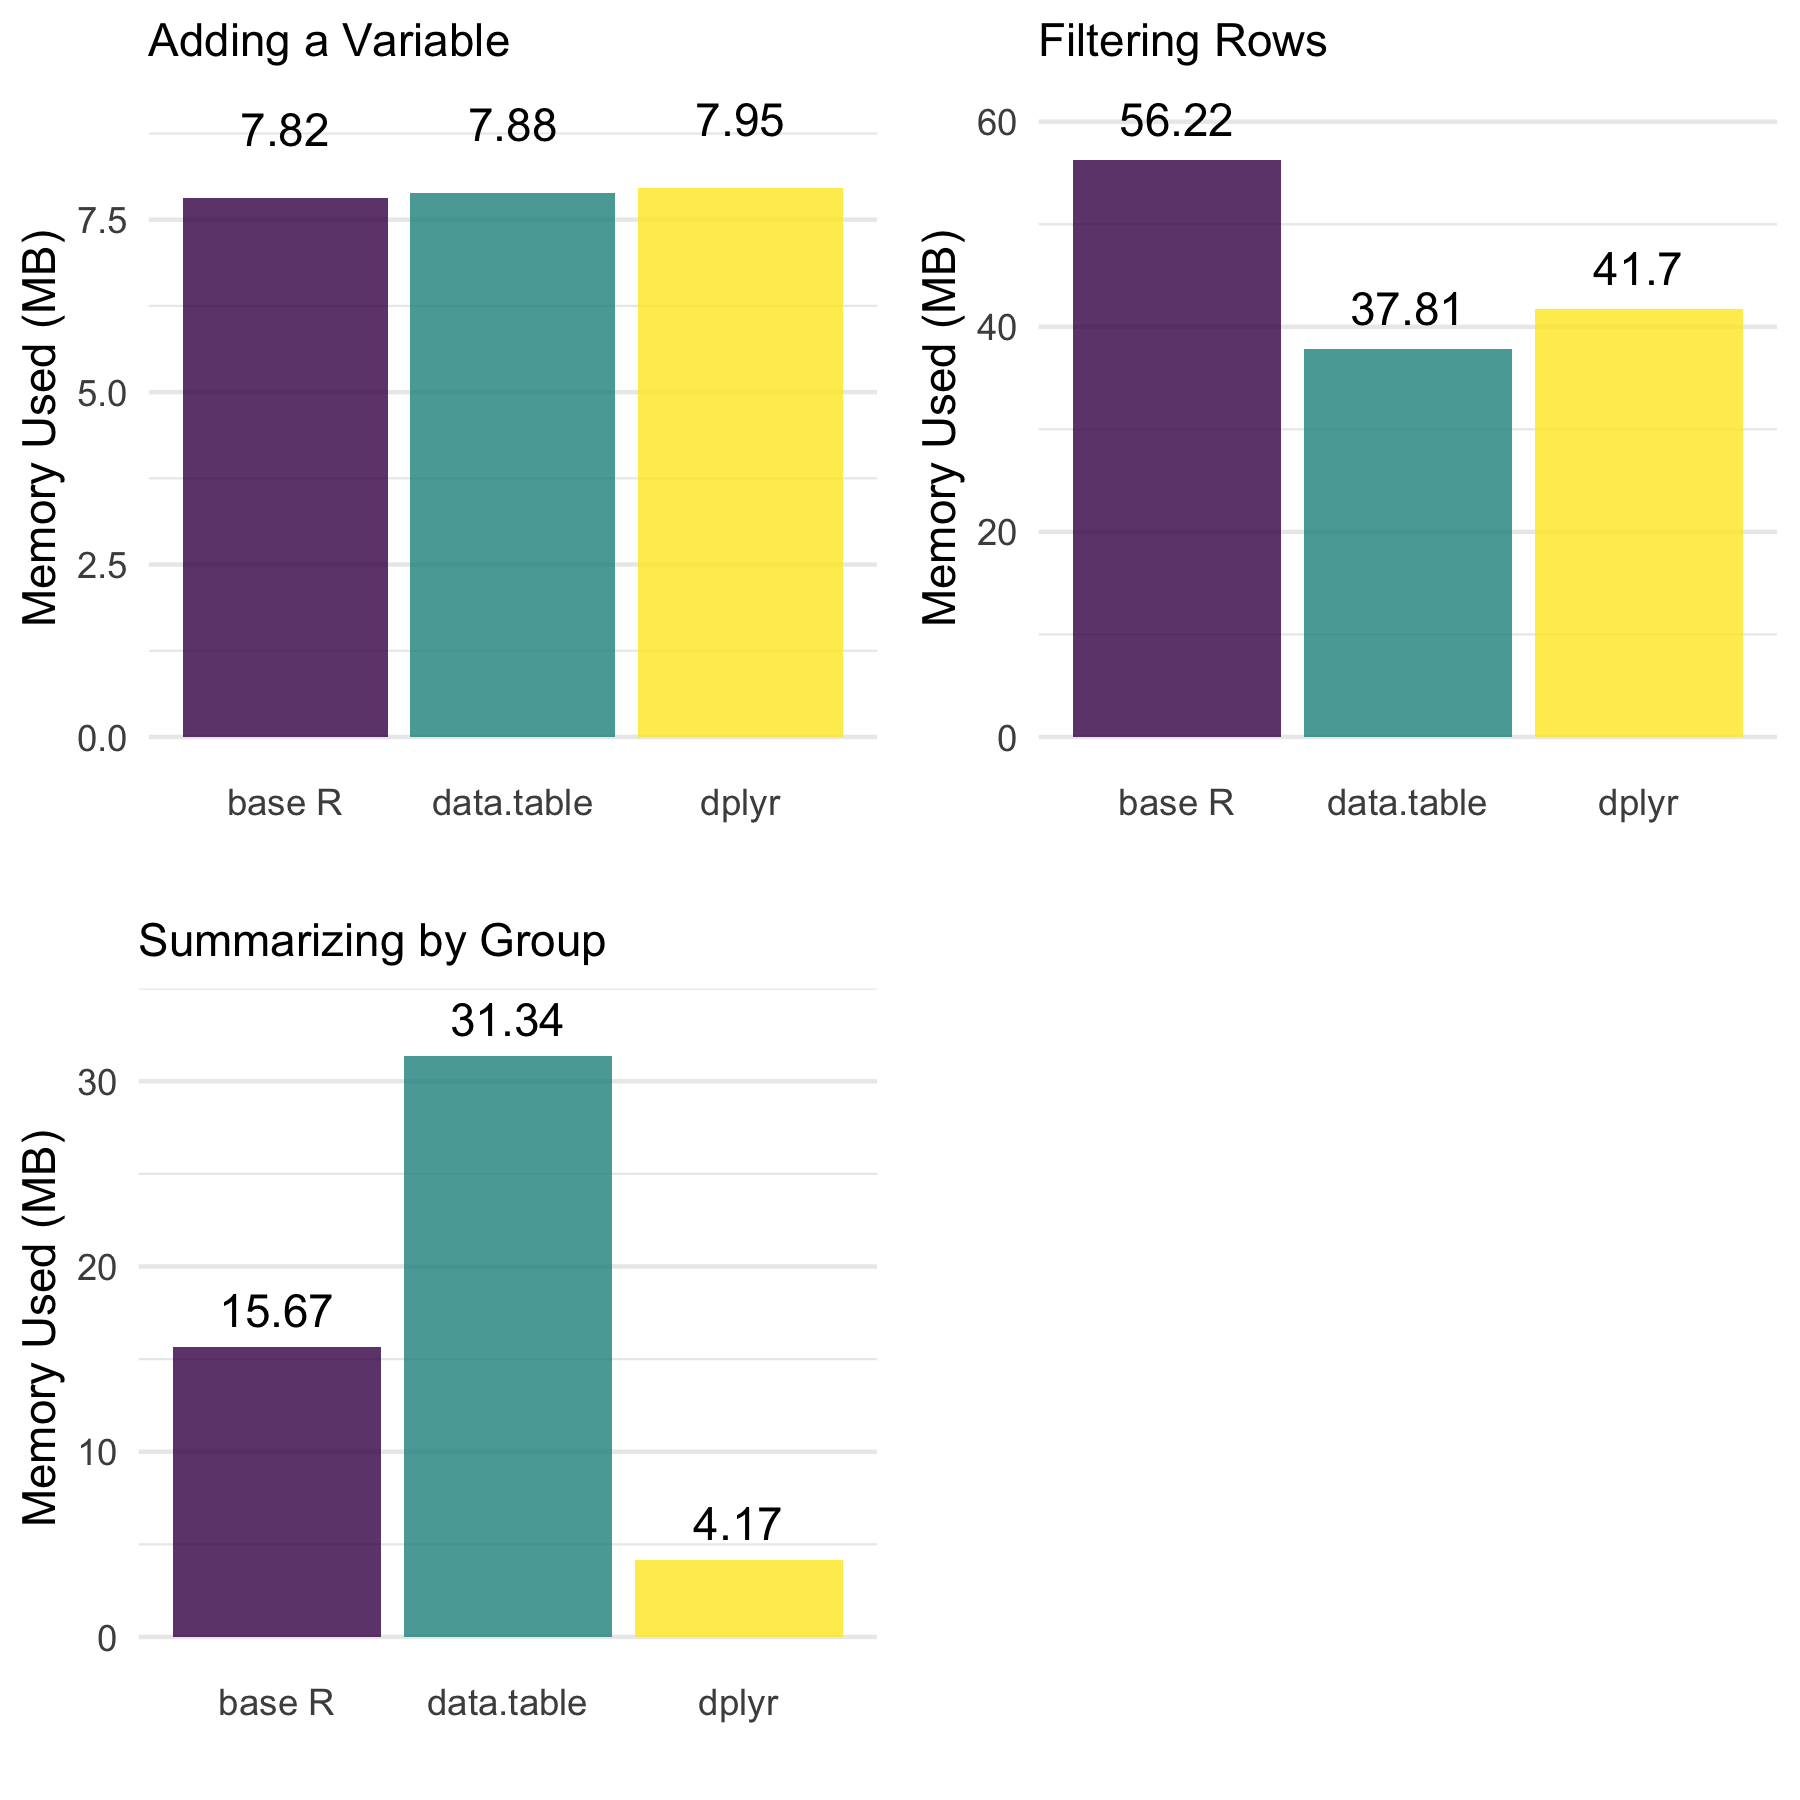
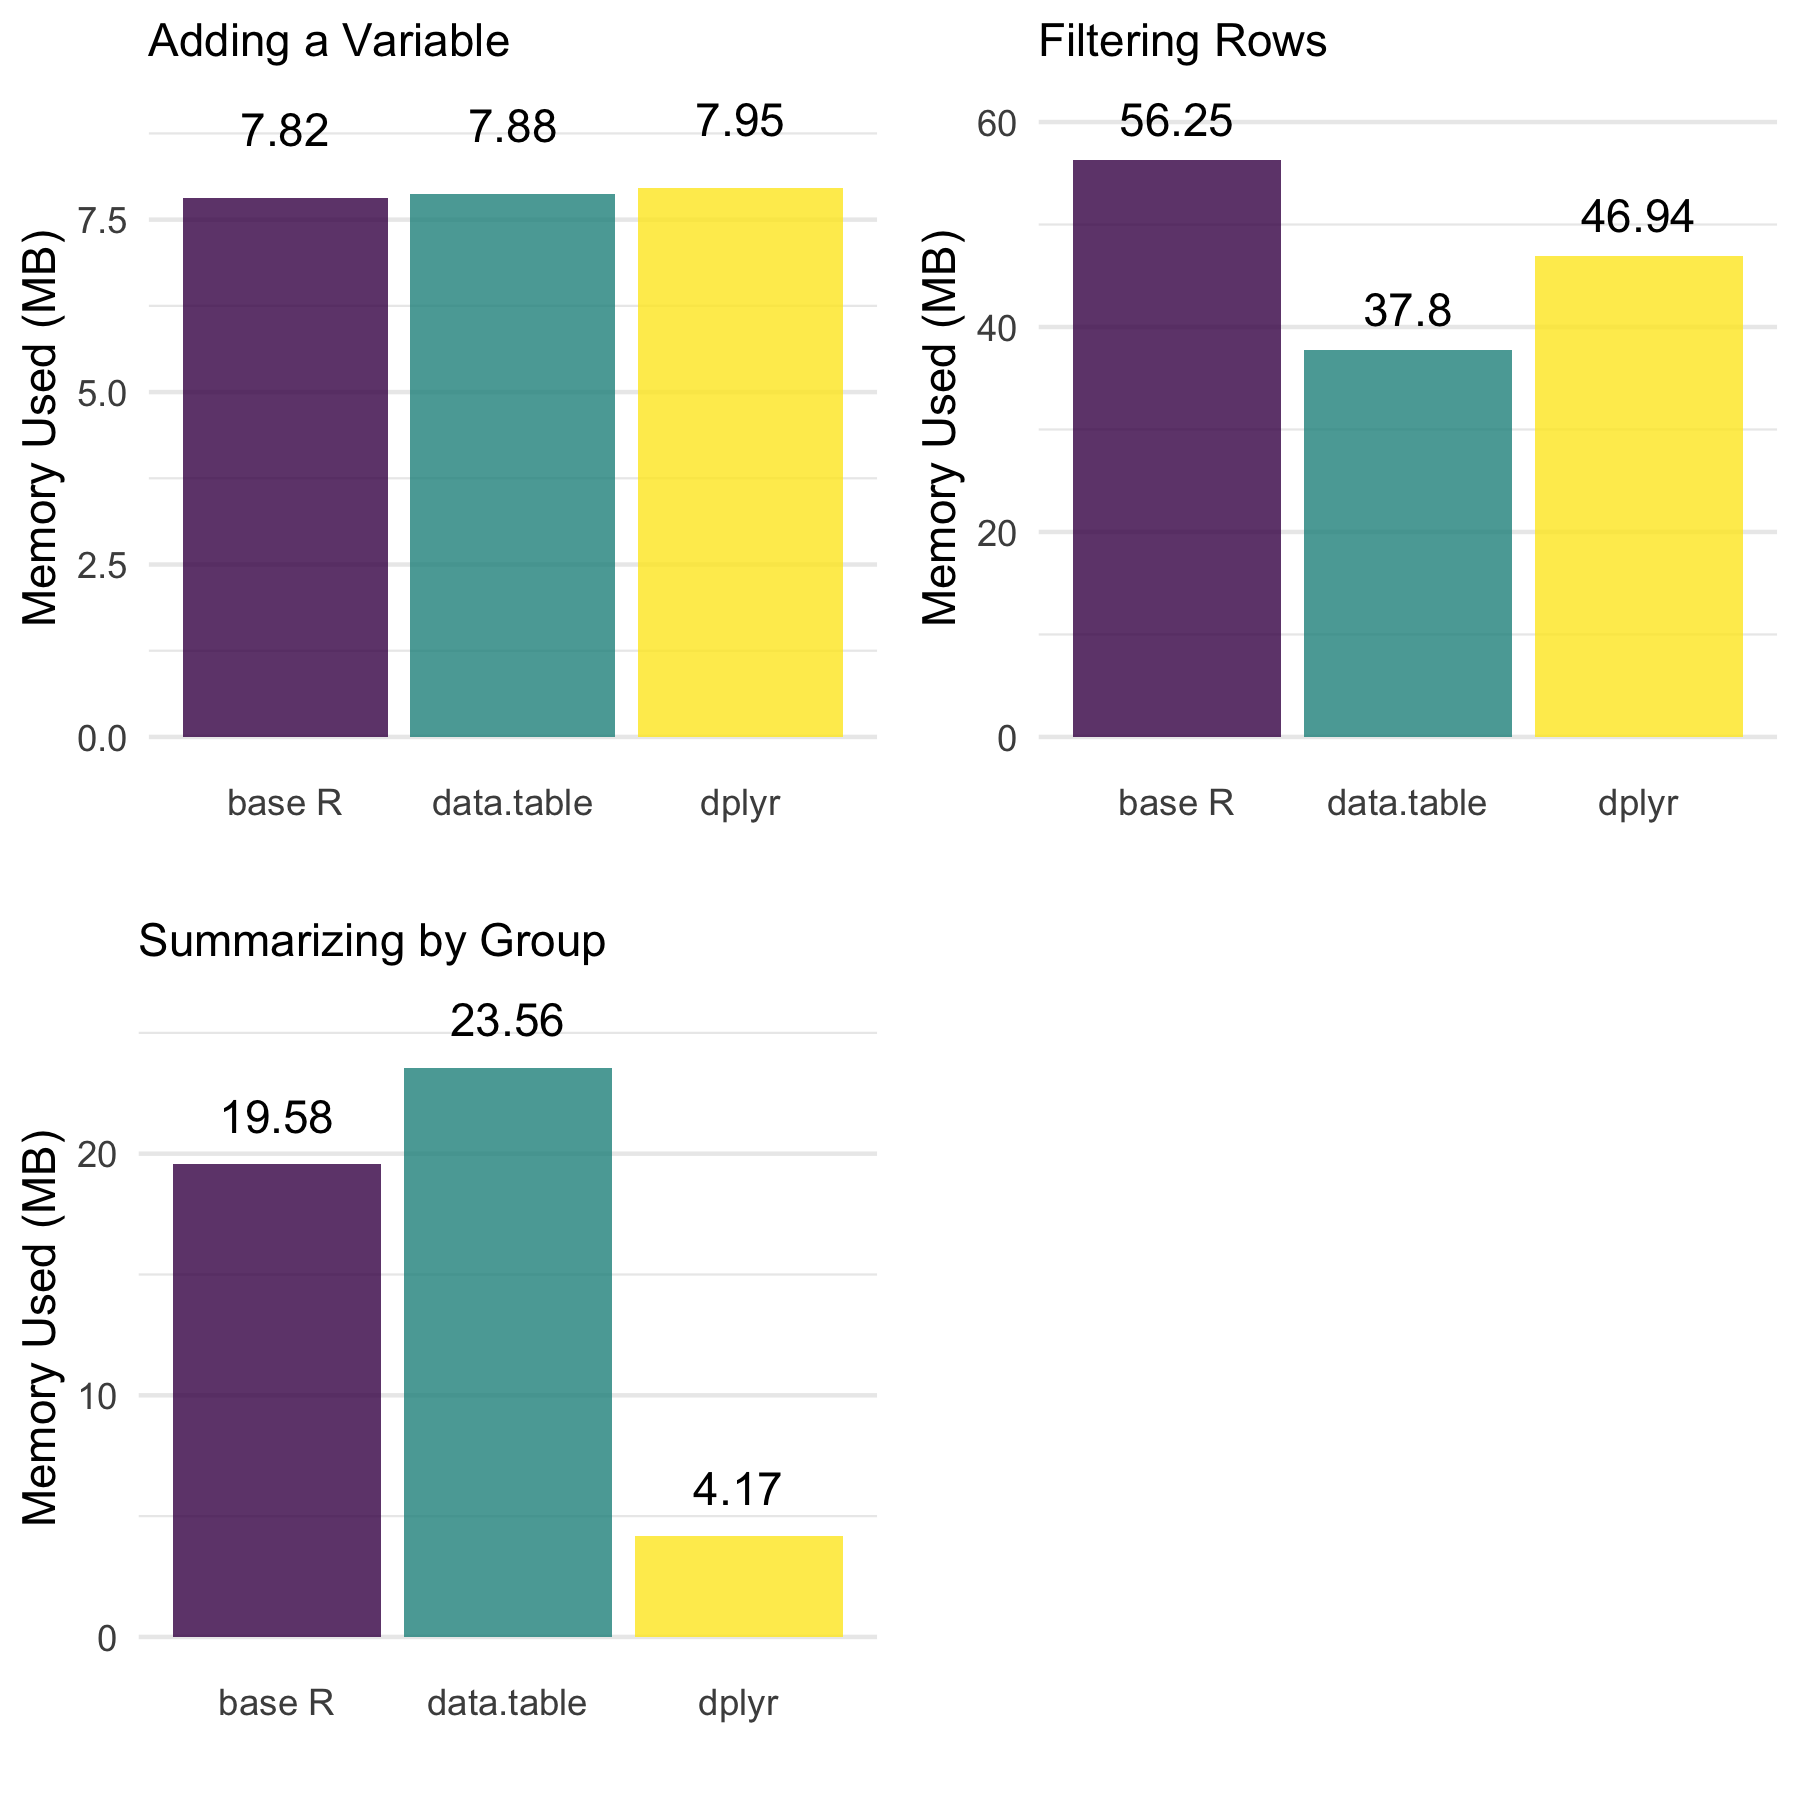
updated datatable memory post

diff --git a/assets/RMD/2019-10-06-datatable_memory.md b/assets/RMD/2019-10-06-datatable_memory.md
@@ -54,27 +54,27 @@ Example Data
 
 We’ll use the following data table for this post.
 
-    dt <- data.table(
+    d <- data.table(
       grp = sample(c(1,2,3), size = 1e6, replace = TRUE) %>% factor,
       x = rnorm(1e6),
       y = runif(1e6)
     )
-    dt
+    d
 
-    ##          grp           x          y
-    ##       1:   1 -0.38947156 0.54057612
-    ##       2:   2 -1.30538661 0.39913045
-    ##       3:   1 -1.31999432 0.31704868
-    ##       4:   1 -0.50988678 0.99807764
-    ##       5:   3  1.95336283 0.14378685
-    ##      ---                           
-    ##  999996:   1 -0.51576465 0.49866080
-    ##  999997:   1  0.97193922 0.07174214
-    ##  999998:   1 -0.06402822 0.98004497
-    ##  999999:   1 -1.78073054 0.51904927
-    ## 1000000:   3 -0.56124894 0.29423306
+    ##          grp          x         y
+    ##       1:   2  0.2558379 0.2034364
+    ##       2:   2 -0.8886153 0.4684875
+    ##       3:   1  0.4724519 0.6850357
+    ##       4:   3  0.7360537 0.4890217
+    ##       5:   2  0.6855063 0.6964860
+    ##      ---                         
+    ##  999996:   1  2.1008965 0.3624327
+    ##  999997:   1  2.2423628 0.2595716
+    ##  999998:   2  1.5314115 0.1102460
+    ##  999999:   3 -1.6086973 0.2679477
+    ## 1000000:   1  1.2518419 0.6566943
 
-It is roughly 20 MB and has an address of 0x7fd481204000. We won’t be
+It is roughly 20 MB and has an address of 0x7f80f0f91000. We won’t be
 using this address later on because we’ll be making copies of this data
 table, but note that an object has a size and an address on your
 computer.
@@ -133,7 +133,7 @@ functions.
       data[grp == 1]
     }
     dt_summarize <- function(data){
-      data[, mean(x), by = "grp"]
+      data[, mean(x), keyby = grp]
     }
 
 Copies to Benchmark
@@ -142,9 +142,9 @@ Copies to Benchmark
 The data below are copied in order to make the benchmarking more
 comparable.
 
-    df <- copy(dt) %>% as.data.frame()
-    tbl <- copy(dt) %>% as_tibble()
-    dt <- copy(dt)
+    df <- copy(d) %>% as.data.frame()
+    tbl <- copy(d) %>% as_tibble()
+    dt <- copy(d)
 
 Benchmarking
 ------------
@@ -183,6 +183,40 @@ Speed
 
 Below, we next look at the speed
 
+### Update: What if we sort first?
+
+Michael linked the following post by Brodie, reminding me of the drastic
+effects sorting can have on the speed of the data manipulations.
+
+<blockquote class="twitter-tweet">
+<p lang="en" dir="ltr">
+see also:<a href="https://t.co/MMENfBEP2g">https://t.co/MMENfBEP2g</a>
+</p>
+— Michael Chirico (@michael\_chirico)
+<a href="https://twitter.com/michael_chirico/status/1182314187457851393?ref_src=twsrc%5Etfw">October
+10, 2019</a>
+</blockquote>
+<script async src="https://platform.twitter.com/widgets.js" charset="utf-8"></script>
+So, let’s sort the data first and see what changes.
+
+    df <- copy(d) %>% as.data.frame() %>% .[order(.$grp), ]
+    tbl <- copy(d) %>% as_tibble() %>% arrange(grp)
+    dt <- copy(d)
+    setkey(dt, grp)
+
+    # Adding a variable
+    bench_base_m  <- bench::mark(base_mutate(df), iterations = 50)
+    bench_dplyr_m <- bench::mark(dplyr_mutate(tbl), iterations = 50)
+    bench_dt_m    <- bench::mark(dt_mutate(dt), iterations = 50)
+    # Filtering rows
+    bench_base_f  <- bench::mark(base_filter(df), iterations = 50)
+    bench_dplyr_f <- bench::mark(dplyr_filter(tbl), iterations = 50)
+    bench_dt_f    <- bench::mark(dt_filter(dt), iterations = 50)
+    # Summarizing by group
+    bench_base_s  <- bench::mark(base_summarize(df), iterations = 50)
+    bench_dplyr_s <- bench::mark(dplyr_summarize(tbl), iterations = 50)
+    bench_dt_s    <- bench::mark(dt_summarize(dt), iterations = 50)
+
 <!--
 #### Aside: Why is `dplyr` so efficient in summarizing?
 
@@ -209,7 +243,6 @@ bench::mark(dt_modify[, base::mean(x), by = "grp"],
 
 Ultimately, this is something I'd love to learn more about. Be on the look out for future posts discussing this!
 -->
-
 Session Information
 -------------------
 
@@ -219,7 +252,7 @@ Note the package information for these analyses.
 
     ## ─ Session info ──────────────────────────────────────────────────────────
     ##  setting  value                       
-    ##  version  R version 3.6.1 (2019-07-05)
+    ##  version  R version 3.5.2 (2018-12-20)
     ##  os       macOS Mojave 10.14.6        
     ##  system   x86_64, darwin15.6.0        
     ##  ui       X11                         
@@ -231,52 +264,54 @@ Note the package information for these analyses.
     ## 
     ## ─ Packages ──────────────────────────────────────────────────────────────
     ##  package     * version date       lib source        
-    ##  assertthat    0.2.1   2019-03-21 [1] CRAN (R 3.6.0)
-    ##  backports     1.1.5   2019-10-02 [1] CRAN (R 3.6.0)
-    ##  beeswarm      0.2.3   2016-04-25 [1] CRAN (R 3.6.0)
-    ##  bench       * 1.0.4   2019-09-06 [1] CRAN (R 3.6.0)
-    ##  cli           1.1.0   2019-03-19 [1] CRAN (R 3.6.0)
-    ##  colorspace    1.4-1   2019-03-18 [1] CRAN (R 3.6.0)
-    ##  cowplot     * 1.0.0   2019-07-11 [1] CRAN (R 3.6.0)
-    ##  crayon        1.3.4   2017-09-16 [1] CRAN (R 3.6.0)
-    ##  data.table  * 1.12.4  2019-10-03 [1] CRAN (R 3.6.1)
-    ##  digest        0.6.21  2019-09-20 [1] CRAN (R 3.6.0)
-    ##  dplyr       * 0.8.3   2019-07-04 [1] CRAN (R 3.6.0)
-    ##  ellipsis      0.3.0   2019-09-20 [1] CRAN (R 3.6.0)
-    ##  evaluate      0.14    2019-05-28 [1] CRAN (R 3.6.0)
-    ##  ggbeeswarm    0.6.0   2017-08-07 [1] CRAN (R 3.6.0)
-    ##  ggplot2     * 3.2.1   2019-08-10 [1] CRAN (R 3.6.0)
-    ##  glue          1.3.1   2019-03-12 [1] CRAN (R 3.6.0)
-    ##  gtable        0.3.0   2019-03-25 [1] CRAN (R 3.6.0)
-    ##  htmltools     0.4.0   2019-10-04 [1] CRAN (R 3.6.0)
-    ##  knitr         1.25    2019-09-18 [1] CRAN (R 3.6.0)
-    ##  labeling      0.3     2014-08-23 [1] CRAN (R 3.6.0)
-    ##  lazyeval      0.2.2   2019-03-15 [1] CRAN (R 3.6.0)
-    ##  lifecycle     0.1.0   2019-08-01 [1] CRAN (R 3.6.0)
-    ##  lobstr      * 1.1.1   2019-07-02 [1] CRAN (R 3.6.0)
-    ##  magrittr      1.5     2014-11-22 [1] CRAN (R 3.6.0)
-    ##  munsell       0.5.0   2018-06-12 [1] CRAN (R 3.6.0)
-    ##  pillar        1.4.2   2019-06-29 [1] CRAN (R 3.6.0)
-    ##  pkgconfig     2.0.3   2019-09-22 [1] CRAN (R 3.6.0)
-    ##  profmem       0.5.0   2018-01-30 [1] CRAN (R 3.6.0)
-    ##  purrr         0.3.2   2019-03-15 [1] CRAN (R 3.6.0)
-    ##  R6            2.4.0   2019-02-14 [1] CRAN (R 3.6.0)
-    ##  Rcpp          1.0.2   2019-07-25 [1] CRAN (R 3.6.0)
-    ##  rlang         0.4.0   2019-06-25 [1] CRAN (R 3.6.0)
-    ##  rmarkdown     1.16    2019-10-01 [1] CRAN (R 3.6.0)
-    ##  scales        1.0.0   2018-08-09 [1] CRAN (R 3.6.0)
-    ##  sessioninfo   1.1.1   2018-11-05 [1] CRAN (R 3.6.0)
-    ##  stringi       1.4.3   2019-03-12 [1] CRAN (R 3.6.0)
-    ##  stringr       1.4.0   2019-02-10 [1] CRAN (R 3.6.0)
-    ##  tibble        2.1.3   2019-06-06 [1] CRAN (R 3.6.0)
-    ##  tidyr         1.0.0   2019-09-11 [1] CRAN (R 3.6.0)
-    ##  tidyselect    0.2.5   2018-10-11 [1] CRAN (R 3.6.0)
-    ##  vctrs         0.2.0   2019-07-05 [1] CRAN (R 3.6.0)
-    ##  vipor         0.4.5   2017-03-22 [1] CRAN (R 3.6.0)
-    ##  viridisLite   0.3.0   2018-02-01 [1] CRAN (R 3.6.0)
-    ##  withr         2.1.2   2018-03-15 [1] CRAN (R 3.6.0)
-    ##  xfun          0.10    2019-10-01 [1] CRAN (R 3.6.0)
-    ##  yaml          2.2.0   2018-07-25 [1] CRAN (R 3.6.0)
-    ##  zeallot       0.1.0   2018-01-28 [1] CRAN (R 3.6.0)
+    ##  assertthat    0.2.1   2019-03-21 [1] CRAN (R 3.5.2)
+    ##  backports     1.1.5   2019-10-02 [1] CRAN (R 3.5.2)
+    ##  beeswarm      0.2.3   2016-04-25 [1] CRAN (R 3.5.0)
+    ##  bench       * 1.0.4   2019-09-06 [1] CRAN (R 3.5.2)
+    ##  cli           1.1.0   2019-03-19 [1] CRAN (R 3.5.2)
+    ##  colorspace    1.4-1   2019-03-18 [1] CRAN (R 3.5.2)
+    ##  cowplot     * 1.0.0   2019-07-11 [1] CRAN (R 3.5.2)
+    ##  crayon        1.3.4   2017-09-16 [1] CRAN (R 3.5.0)
+    ##  data.table  * 1.12.2  2019-04-07 [1] CRAN (R 3.5.2)
+    ##  digest        0.6.21  2019-09-20 [1] CRAN (R 3.5.2)
+    ##  dplyr       * 0.8.3   2019-07-04 [1] CRAN (R 3.5.2)
+    ##  ellipsis      0.3.0   2019-09-20 [1] CRAN (R 3.5.2)
+    ##  evaluate      0.14    2019-05-28 [1] CRAN (R 3.5.2)
+    ##  ggbeeswarm    0.6.0   2017-08-07 [1] CRAN (R 3.5.0)
+    ##  ggplot2     * 3.2.1   2019-08-10 [1] CRAN (R 3.5.2)
+    ##  glue          1.3.1   2019-03-12 [1] CRAN (R 3.5.2)
+    ##  gtable        0.3.0   2019-03-25 [1] CRAN (R 3.5.2)
+    ##  here          0.1     2017-05-28 [1] CRAN (R 3.5.0)
+    ##  htmltools     0.4.0   2019-10-04 [1] CRAN (R 3.5.2)
+    ##  knitr         1.25    2019-09-18 [1] CRAN (R 3.5.2)
+    ##  labeling      0.3     2014-08-23 [1] CRAN (R 3.5.0)
+    ##  lazyeval      0.2.2   2019-03-15 [1] CRAN (R 3.5.2)
+    ##  lifecycle     0.1.0   2019-08-01 [1] CRAN (R 3.5.2)
+    ##  lobstr      * 1.1.1   2019-07-02 [1] CRAN (R 3.5.2)
+    ##  magrittr      1.5     2014-11-22 [1] CRAN (R 3.5.0)
+    ##  munsell       0.5.0   2018-06-12 [1] CRAN (R 3.5.0)
+    ##  pillar        1.4.2   2019-06-29 [1] CRAN (R 3.5.2)
+    ##  pkgconfig     2.0.3   2019-09-22 [1] CRAN (R 3.5.2)
+    ##  profmem       0.5.0   2018-01-30 [1] CRAN (R 3.5.0)
+    ##  purrr         0.3.2   2019-03-15 [1] CRAN (R 3.5.2)
+    ##  R6            2.4.0   2019-02-14 [1] CRAN (R 3.5.2)
+    ##  Rcpp          1.0.2   2019-07-25 [1] CRAN (R 3.5.2)
+    ##  rlang         0.4.0   2019-06-25 [1] CRAN (R 3.5.2)
+    ##  rmarkdown     1.16    2019-10-01 [1] CRAN (R 3.5.2)
+    ##  rprojroot     1.3-2   2018-01-03 [1] CRAN (R 3.5.0)
+    ##  scales        1.0.0   2018-08-09 [1] CRAN (R 3.5.0)
+    ##  sessioninfo   1.1.1   2018-11-05 [1] CRAN (R 3.5.0)
+    ##  stringi       1.4.3   2019-03-12 [1] CRAN (R 3.5.2)
+    ##  stringr       1.4.0   2019-02-10 [1] CRAN (R 3.5.2)
+    ##  tibble        2.1.3   2019-06-06 [1] CRAN (R 3.5.2)
+    ##  tidyr         1.0.0   2019-09-11 [1] CRAN (R 3.5.2)
+    ##  tidyselect    0.2.5   2018-10-11 [1] CRAN (R 3.5.0)
+    ##  vctrs         0.2.0   2019-07-05 [1] CRAN (R 3.5.2)
+    ##  vipor         0.4.5   2017-03-22 [1] CRAN (R 3.5.0)
+    ##  viridisLite   0.3.0   2018-02-01 [1] CRAN (R 3.5.0)
+    ##  withr         2.1.2   2018-03-15 [1] CRAN (R 3.5.0)
+    ##  xfun          0.10    2019-10-01 [1] CRAN (R 3.5.2)
+    ##  yaml          2.2.0   2018-07-25 [1] CRAN (R 3.5.0)
+    ##  zeallot       0.1.0   2018-01-28 [1] CRAN (R 3.5.0)
     ## 
-    ## [1] /Library/Frameworks/R.framework/Versions/3.6/Resources/library
+    ## [1] /Library/Frameworks/R.framework/Versions/3.5/Resources/library

diff --git a/_posts/2019-10-06-datatable_memory.md b/_posts/2019-10-06-datatable_memory.md
@@ -48,6 +48,7 @@ both `dplyr` and `data.table` perform very well.
 
 If you want the specifics, continue on :)
 
+
 Packages
 --------
 
@@ -73,12 +74,12 @@ Example Data
 We’ll use the following data table for this post.
 
 {% highlight r %}
-dt <- data.table(
+d <- data.table(
   grp = sample(c(1,2,3), size = 1e6, replace = TRUE) %>% factor,
   x = rnorm(1e6),
   y = runif(1e6)
 )
-dt
+d
 {% endhighlight %}
 
     ##          grp           x          y
@@ -169,9 +170,9 @@ The data below are copied in order to make the benchmarking more
 comparable.
 
 {% highlight r %}
-df <- copy(dt) %>% as.data.frame()
-tbl <- copy(dt) %>% as_tibble()
-dt <- copy(dt)
+df <- copy(d) %>% as.data.frame()
+tbl <- copy(d) %>% as_tibble()
+dt <- copy(d)
 {% endhighlight %}
 
 Benchmarking
@@ -213,12 +214,49 @@ Definitely some things worth noting across the approaches.
 Speed
 -----
 
-Below, we next look at the speed
+Below, we next look at the speed of each approach. Notably, this is on data 
+that has *not* been sorted in any way prior to the data manipulations.
 
 <img src="{{ site.baseurl }}/assets/RMD/2019-10-06-datatable_memory_files/fig2.png" style="display: block; margin: auto;" />
 
-When it comes to speed, `data.table` is either the quickest or similarly quick to one or both of the others. Notably, though, `dplyr` is usually very close, and often is base R as well for these three situations.
+When it comes to speed, `data.table` is either the quickest or similarly quick to one or both of the others. 
+Notably, though, `dplyr` is usually very close, and often is base R as well for these three situations.
+However, in light of these findings, one should consider the way the output is organized. Base R (using
+`tapply()`) provides a named vector while `data.table` and `dplyr` provide data frames (or extensions).
+This may play a role in the speed results we see here.
 
+### Update: What if we sort first?
+
+Michael linked the following post by Brodie, reminding me of the drastic effects sorting can have on the speed of the data manipulations. 
+
+<blockquote class="twitter-tweet"><p lang="en" dir="ltr">see also:<a href="https://t.co/MMENfBEP2g">https://t.co/MMENfBEP2g</a></p>&mdash; Michael Chirico (@michael_chirico) <a href="https://twitter.com/michael_chirico/status/1182314187457851393?ref_src=twsrc%5Etfw">October 10, 2019</a></blockquote> <script async src="https://platform.twitter.com/widgets.js" charset="utf-8"></script>
+
+So, let's sort the data first and see what changes.
+
+{% highlight r %}
+df <- copy(d) %>% as.data.frame() %>% .[order(.$grp), ]
+tbl <- copy(d) %>% as_tibble() %>% arrange(grp)
+dt <- copy(d)
+setkey(dt, grp)
+
+# Adding a variable
+bench_base_m  <- bench::mark(base_mutate(df), iterations = 50)
+bench_dplyr_m <- bench::mark(dplyr_mutate(tbl), iterations = 50)
+bench_dt_m    <- bench::mark(dt_mutate(dt), iterations = 50)
+# Filtering rows
+bench_base_f  <- bench::mark(base_filter(df), iterations = 50)
+bench_dplyr_f <- bench::mark(dplyr_filter(tbl), iterations = 50)
+bench_dt_f    <- bench::mark(dt_filter(dt), iterations = 50)
+# Summarizing by group
+bench_base_s  <- bench::mark(base_summarize(df), iterations = 50)
+bench_dplyr_s <- bench::mark(dplyr_summarize(tbl), iterations = 50)
+bench_dt_s    <- bench::mark(dt_summarize(dt), iterations = 50)
+{% endhighlight %}
+
+<img src="{{ site.baseurl }}/assets/RMD/2019-10-06-datatable_memory_files/fig3.png" style="display: block; margin: auto;" />
+
+Both filtering and summarizing are faster for `data.table` 
+without much change for base R or `dplyr` approaches.
 
 Conclusion
 ----------
